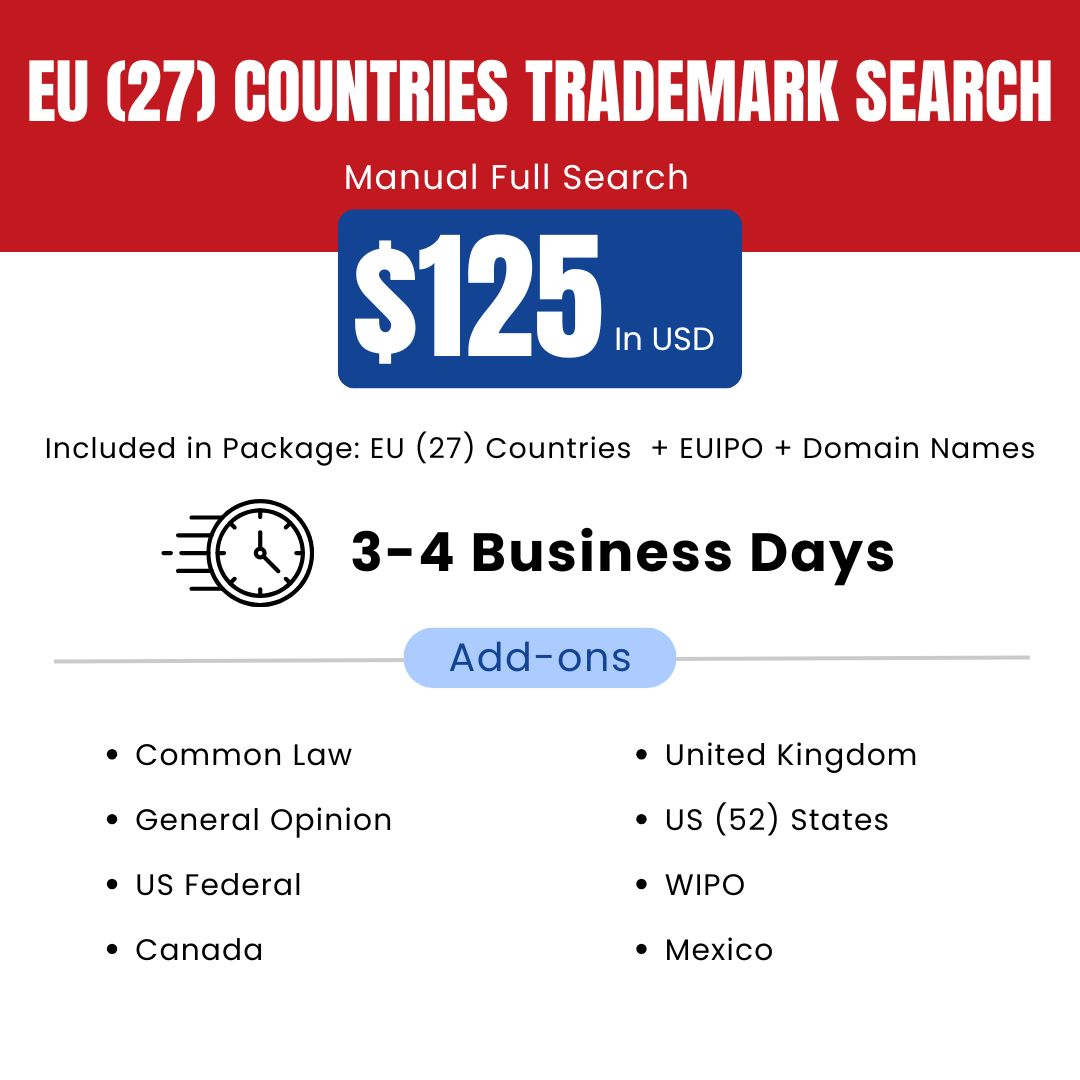
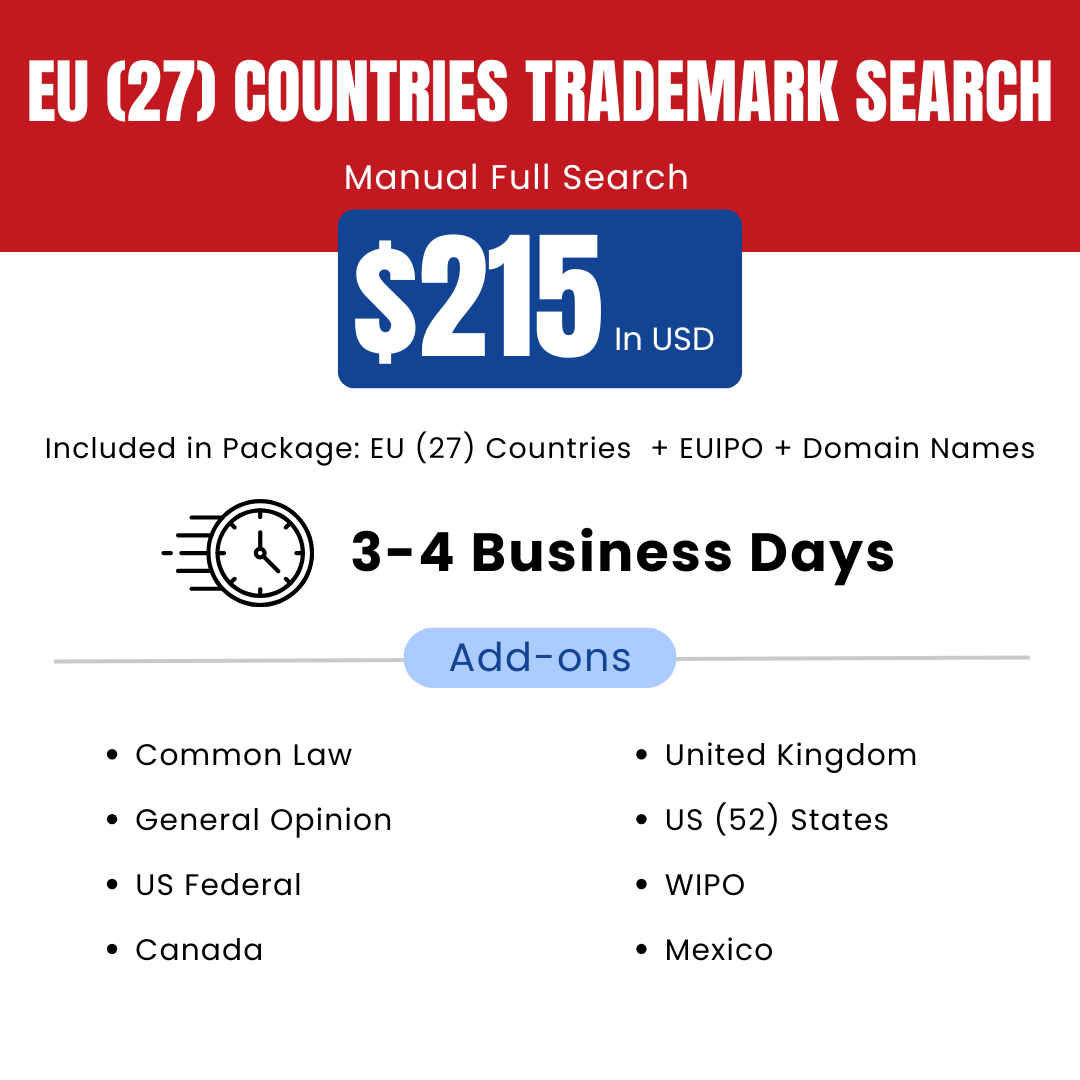
add

Changed region(s): [[0.3667, 0.2139, 0.5194, 0.3361]]

diff --git a/src/data/products.js b/src/data/products.js
@@ -263,7 +263,7 @@ export const trademarkProducts = [
   {
     name: "Australia Trademark Search - Advanced AI Full Search",
     included: "AU Trademarks",
-    price: 125,
+    price: 65,
     banner: "/checkout/Australia Trademark Search - AI.png",
     path: "/australia-trademark-search-advanced-ai-full-search",
     addOns: [
@@ -278,16 +278,16 @@ export const trademarkProducts = [
 
       {
         name: "US Federal",
-        price: 60,
+        price: 65,
       },
 
       {
         name: "US (52) States",
-        price: 100,
+        price: 35,
       },
       {
         name: "Canada",
-        price: 60,
+        price: 65,
       },
       {
         name: "Mexico",
@@ -307,7 +307,7 @@ export const trademarkProducts = [
     name: "Australia Trademark Search - Manual Full Search",
     included: "Australia + WIPO + Domain Names",
     price: 125,
-    banner: "/checkout/Australia Trademark Search - AI.png",
+    banner: "/checkout/Australia Trademark Search - Manual.png",
     path: "/australia-trademark-search-manual-full-search",
     addOns: [
       {
@@ -606,7 +606,7 @@ export const trademarkProducts = [
     name: "China Trademark Search - Manual Full Search",
     included: "China + WIPO + Domain Names",
     price: 125,
-    banner: "/checkout/Europe Trademark Search - Manual.png",
+    banner: "/checkout/china Trademark Search - Manual.png",
     path: "/china-trademark-search-manual-full-search",
     addOns: [
       {

diff --git a/src/app/faqs/page.tsx b/src/app/faqs/page.tsx
@@ -154,6 +154,16 @@ const page: React.FC<PageProps> = (props) => {
         </div>
       </section>
       <section className="w-full">
+      <section className="flex flex-col items-center justify-center p-5">
+          <h4 className="md:text-[26px] font-bold text-xl ">Trademark Search</h4>
+          <ul className="p-4 md:w-[85%] space-y-2">
+            {trademarkSearch.map((item) => (
+              <li>
+                <QuesAns ques={item.question} ans={item.answer} />
+              </li>
+            ))}
+          </ul>
+        </section>
         <section className="flex flex-col items-center justify-center p-5">
           <h4 className="md:text-[26px]  text-xl font-bold">
             Trademark Monitoring{" "}
@@ -177,16 +187,7 @@ const page: React.FC<PageProps> = (props) => {
             ))}
           </ul>
         </section>
-        <section className="flex flex-col items-center justify-center p-5">
-          <h4 className="md:text-[26px] font-bold text-xl ">Trademark Search</h4>
-          <ul className="p-4 md:w-[85%] space-y-2">
-            {trademarkSearch.map((item) => (
-              <li>
-                <QuesAns ques={item.question} ans={item.answer} />
-              </li>
-            ))}
-          </ul>
-        </section>
+        
       </section>
     </main>
   );
